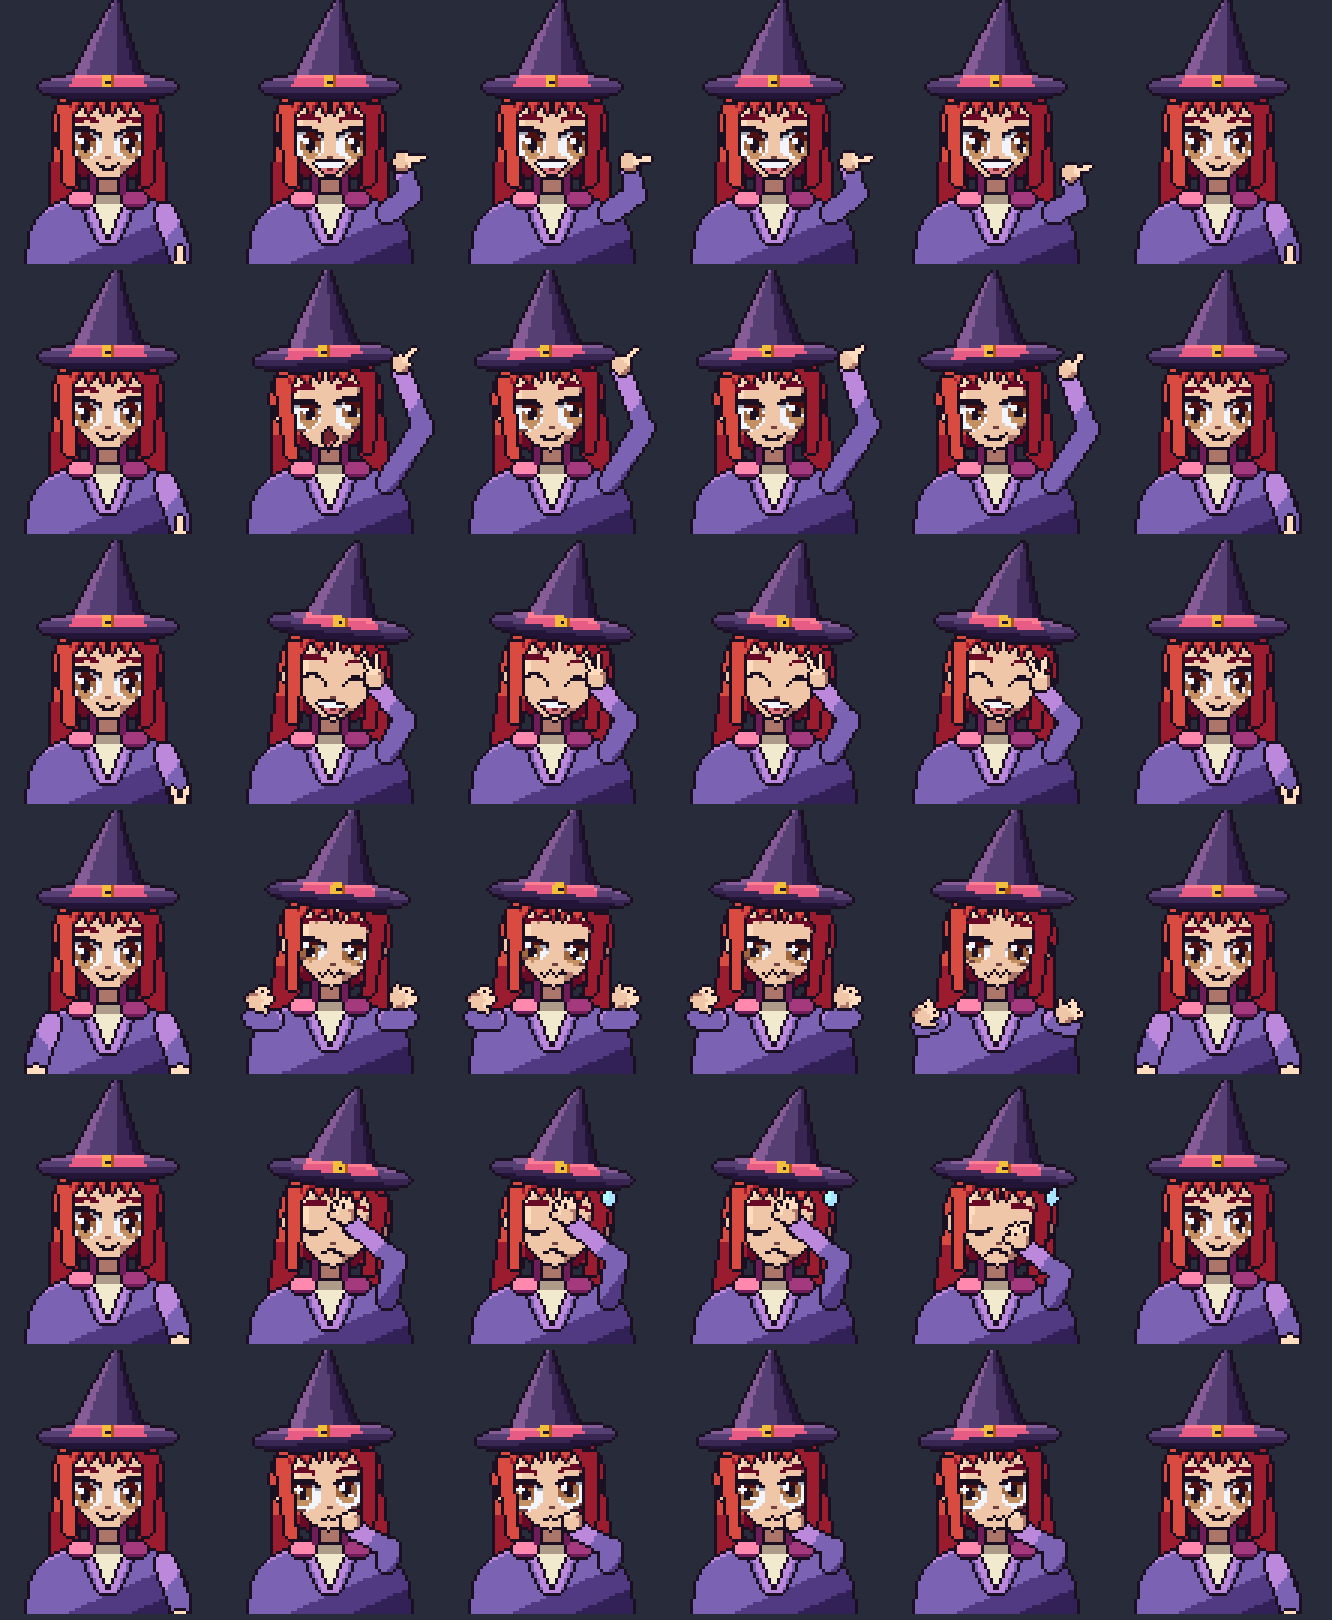
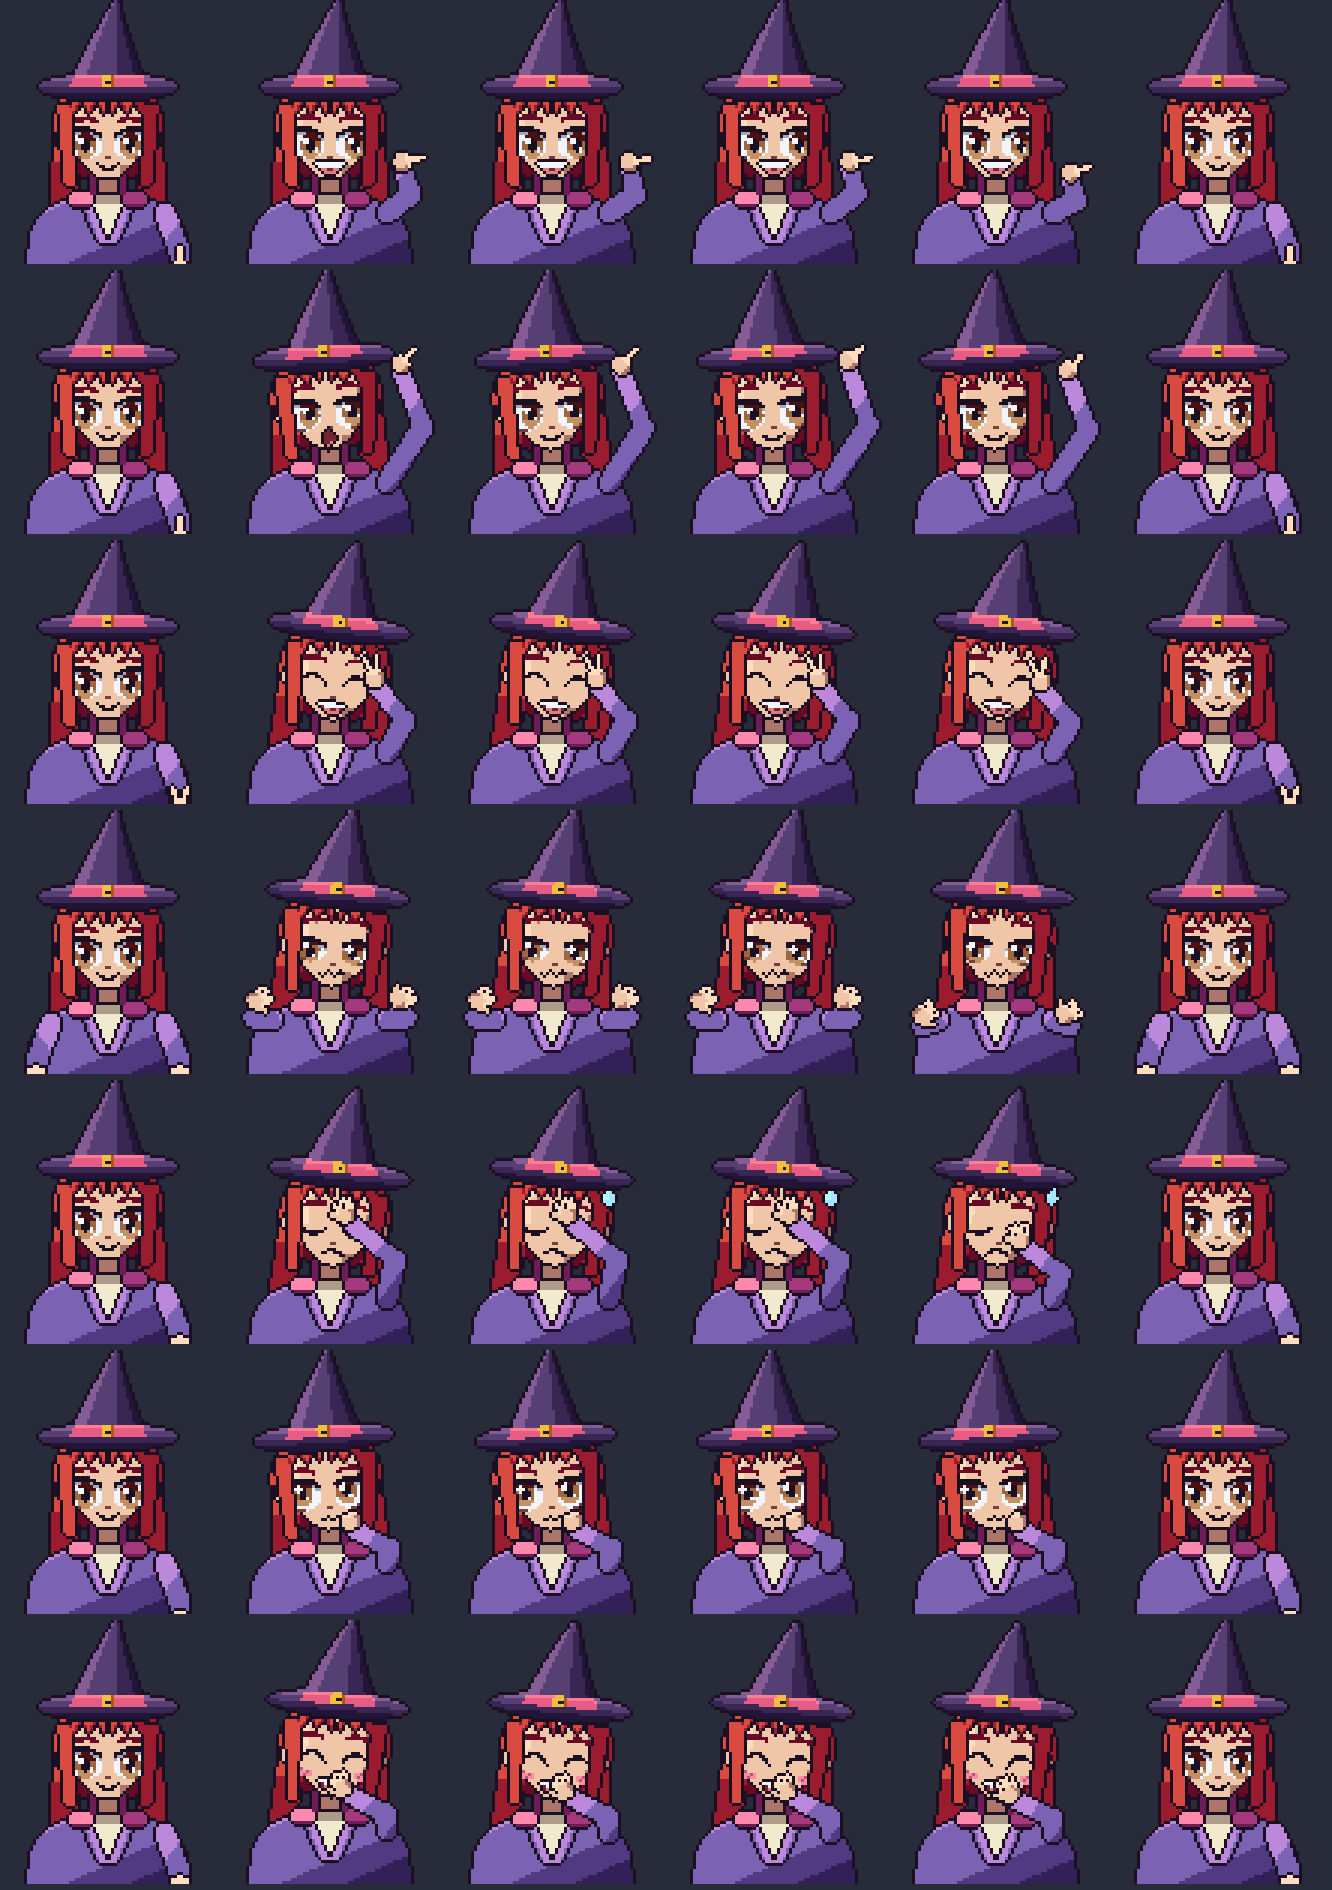
Portrait parts: no familiar (Ed: confusing in a game about animals); a giggle behind her hand
The familiar layer, its materials and test are gone. New gesture handToMouth (art3 asked for a hand to the mouth).

Claude-Session: https://claude.ai/code/session_01FVGKHvaavDn5xGsWtRTBaz

diff --git a/src/ui/portrait/parts.test.ts b/src/ui/portrait/parts.test.ts
@@ -1,20 +1,18 @@
 import { describe, expect, it } from "vitest";
 import * as Gen from "../../../art/witchGenome.js";
 import { drawPortrait } from "./draw";
-import { FAMILIARS } from "./familiar";
 import { OTHER_HATS } from "./hats";
-import { MAT, PALETTE_SIZE, col, portraitPalette } from "./palette";
 import { GESTURES, sample } from "./poses";
 import { Raster } from "./raster";
 import { H, NEUTRAL, W, lookOf, type Params } from "./rig";
 import { OTHER_TOPS } from "./tops";
 
-// art builder 1's parts on art3's frame: the other hats, the patterned tops, the familiar, the extra gestures.
-const G = Gen.WITCH_GENOME as { hat: object; accessories: object };
+// art builder 1's parts on art3's frame: the other hats, the patterned tops, the extra gestures. (No familiar: Ed, 2026-10-08,
+// "confusing since the game is about animals".)
+const G = Gen.WITCH_GENOME as { hat: object };
 const r = new Raster(W, H);
 const draw = (g: unknown, p: Partial<Params> = {}, t = 0) => { drawPortrait(r, lookOf(g as never), { ...NEUTRAL, ...p }, t); return r.px.slice(); };
 const differ = (a: Uint8Array, b: Uint8Array) => a.reduce((n, v, i) => n + (v !== b[i] ? 1 : 0), 0);
-const uses = (px: Uint8Array, m: number) => px.some(v => v >= col(m as never, 0) && v <= col(m as never, 3));
 
 describe("the portrait's parts (art builder 1)", () => {
   it("draws every other hat as its own, all different from each other", () => {
@@ -25,20 +23,8 @@ describe("the portrait's parts (art builder 1)", () => {
     const plain = draw({ ...G, top: "jacket" });
     for (const top of Object.keys(OTHER_TOPS)) expect(differ(draw({ ...G, top }), plain), top).toBeGreaterThan(60);
   });
-  it("sits each familiar on her shoulder in its own colours, alive (moving with the clock)", () => {
-    const none = draw({ ...G, accessories: { ...G.accessories, familiar: "none" } });
-    expect(uses(none, MAT.FAMILIAR)).toBe(false);
-    for (const f of Object.keys(FAMILIARS)) {
-      const g = { ...G, accessories: { ...G.accessories, familiar: f } }, a = draw(g, {}, 0);
-      expect(differ(a, none), f).toBeGreaterThan(60);
-      expect(uses(a, MAT.FAMILIAR), f).toBe(true);
-      let moved = 0; for (let t = 0; t < 6; t += 0.05) moved = Math.max(moved, differ(draw(g, {}, t), a));
-      expect(moved, `${f} moves`).toBeGreaterThan(0);
-    }
-    const pal = portraitPalette(null); expect(pal.length).toBe(PALETTE_SIZE); expect(pal[col(MAT.FAMILIAR2, 3)] >>> 24).toBe(255);
-  });
   it("plays the new gestures and ends each back at rest", () => {
-    for (const name of ["point", "pointWay", "peace", "shrug", "facepalm", "think"]) {
+    for (const name of ["point", "pointWay", "peace", "shrug", "facepalm", "think", "handToMouth"]) {
       const s = GESTURES[name]; expect(s, name).toBeDefined();
       const end = sample(s, s.dur);
       expect(end.handL ?? null, name).toSatisfy((h: { y: number } | null) => !h || h.y >= 26);

diff --git a/src/ui/portrait/palette.ts b/src/ui/portrait/palette.ts
@@ -9,7 +9,6 @@ import { DEFAULT_OUTFIT } from "../../../art/witch.js";
 export const MAT = {
   SKIN: 0, HAIR: 1, HAT: 2, BAND: 3, JACKET: 4, TOP: 5, CLOAK: 6, SCARF: 7, PHONES: 8, SHADES: 9, GOLD: 10, IRIS: 11,
   MOUTH: 12, TONGUE: 13, WHITE: 14, BLUSH: 15, SWEAT: 16, PLUME: 17, FLOWER: 18, FLOWER2: 19, TRIM: 20, STAR: 21,
-  FAMILIAR: 22, FAMILIAR2: 23, // (her familiar: its coat, and its eyes, beak or throat; art builder 1)
 } as const;
 export type Mat = (typeof MAT)[keyof typeof MAT];
 export const BASE = 0, LIGHT = 1, SHADE = 2, DEEP = 3;
@@ -41,7 +40,7 @@ const abgr = ([r, g, b]: [number, number, number], a = 255) => ((a << 24) | (b <
 /** The fixed colours: the mouth, tongue, whites, blush, sweat, the stars. */
 const FIXED: Partial<Record<Mat, HSV>> = { [MAT.MOUTH]: [0.98, 0.65, 0.45], [MAT.TONGUE]: [0.99, 0.45, 0.88], [MAT.WHITE]: [0.62, 0.04, 0.99], [MAT.BLUSH]: [0.97, 0.45, 1], [MAT.SWEAT]: [0.55, 0.35, 1], [MAT.STAR]: [0.14, 0.45, 1] };
 /** Which genome part colours each material. */
-const PART: Partial<Record<Mat, string>> = { [MAT.SKIN]: "skin", [MAT.HAIR]: "hair", [MAT.HAT]: "hat", [MAT.BAND]: "band", [MAT.JACKET]: "jacket", [MAT.TOP]: "top", [MAT.CLOAK]: "cloak", [MAT.SCARF]: "scarf", [MAT.PHONES]: "headphones", [MAT.SHADES]: "shades", [MAT.GOLD]: "gold", [MAT.IRIS]: "eyes", [MAT.PLUME]: "plume", [MAT.FLOWER]: "flower", [MAT.FLOWER2]: "flower2", [MAT.TRIM]: "trim", [MAT.FAMILIAR]: "familiar", [MAT.FAMILIAR2]: "familiar2" };
+const PART: Partial<Record<Mat, string>> = { [MAT.SKIN]: "skin", [MAT.HAIR]: "hair", [MAT.HAT]: "hat", [MAT.BAND]: "band", [MAT.JACKET]: "jacket", [MAT.TOP]: "top", [MAT.CLOAK]: "cloak", [MAT.SCARF]: "scarf", [MAT.PHONES]: "headphones", [MAT.SHADES]: "shades", [MAT.GOLD]: "gold", [MAT.IRIS]: "eyes", [MAT.PLUME]: "plume", [MAT.FLOWER]: "flower", [MAT.FLOWER2]: "flower2", [MAT.TRIM]: "trim" };
 /** The eyes' colour while the creator has none (DECISION FOR ED: a warm amber-brown, as in Ed's reference). */
 export const EYES: HSV = [0.07, 0.6, 0.62];
 

diff --git a/src/ui/portrait/poses.ts b/src/ui/portrait/poses.ts
@@ -99,7 +99,7 @@ export const GESTURES: Record<string, Seq> = {
       { t: 1.4, p: { hatRot: 0, hatY: 0, handR: hand(18, -28, "pinch", -0.4) } }, { t: 1.9, p: { handR: down(1, "pinch") } },
     ],
   },
-  // (art builder 1's: pointing, the peace sign, a shrug, a facepalm, a think, and pointing the way for a hint)
+  // (art builder 1's: pointing, the peace sign, a shrug, a facepalm, a think, a hand to her mouth, and pointing the way for a hint)
   point: {
     dur: 1.6, label: "point", keys: [
       { t: 0, p: { handR: down(1, "point") } }, { t: 0.3, p: { handR: hand(24, -8, "point", 1.35), lookX: 0.7, browY: 0.6, mouth: "grin" } },
@@ -136,6 +136,13 @@ export const GESTURES: Record<string, Seq> = {
     dur: 2.4, label: "thinking", keys: [
       { t: 0, p: { handR: down(1, "fist") } }, { t: 0.35, p: { handR: hand(7, -5, "fist", -0.3), lookX: -0.6, lookY: -0.8, mouth: "cat", browAng: 0.15, tilt: -0.06 } },
       { t: 1.9, p: { handR: hand(7, -5, "fist", -0.3), lookX: -0.4 } }, { t: 2.4, p: { handR: down(1, "fist"), lookX: 0, lookY: 0, browAng: 0, tilt: 0, mouth: "smile" } },
+    ],
+  },
+  handToMouth: {
+    dur: 1.8, label: "hand to her mouth (giggle)", keys: [
+      { t: 0, p: { handR: down(1) } }, { t: 0.3, p: { handR: hand(4, -6, "open", -0.5), eyeShape: "happy", mouth: "grin", blush: 1, tilt: 0.08 } },
+      { t: 0.5, p: { dy: -0.6 } }, { t: 0.7, p: { dy: 0 } }, { t: 0.9, p: { dy: -0.6 } }, { t: 1.1, p: { dy: 0 } },
+      { t: 1.4, p: { handR: hand(4, -6, "open", -0.5) } }, { t: 1.8, p: { handR: down(1), eyeShape: "normal", mouth: "smile", blush: 0, tilt: 0 } },
     ],
   },
 };

diff --git a/src/ui/portrait/draw.ts b/src/ui/portrait/draw.ts
@@ -3,8 +3,7 @@
 // names (HATS, HAIRS, TOPS, HANDS), so another one is an entry, and a name the tables lack falls back to hers.
 
 import { BASE, DEEP, INK, LIGHT, MAT, SHADE, col, type Mat } from "./palette";
-import { Raster, hash, inEll, mul, move, nearSeg, scale, tri, turn, type Box, type Xf } from "./raster";
-import { FAMILIARS } from "./familiar";
+import { Raster, hash, inEll, mul, move, nearSeg, tri, turn, type Box, type Xf } from "./raster";
 import { OTHER_HATS } from "./hats";
 import { OTHER_TOPS } from "./tops";
 import { HEAD, H, NECK, SHOULDER, W, type Hand, type Look, type Params } from "./rig";
@@ -256,9 +255,6 @@ export function drawPortrait(r: Raster, look: Look, p: Params, t: number): void 
     const hd = (HATS[look.hat] ?? HATS.classic)!;
     r.draw((x, y) => hd.px(x, y, look, p), hd.box(look), mul(head, mul(move(p.hatX, -15.5 + p.hatY), turn(p.hatRot + look.hatTilt * 0.05))), INK);
   }
-  // her familiar on her shoulder
-  const fam = FAMILIARS[look.familiar];
-  if (fam) r.draw((x, y) => fam.px(x, y, t), fam.box, mul(body, mul(move(-19, 8), mul(scale(1.3), move(19, -8)))), INK); // (a little bigger than life, so it reads)
   // hands in front
   for (const [hd, s] of [[p.handL, -1], [p.handR, 1]] as const) if (hd && !hd.behind) hand(hd, s);
 }
